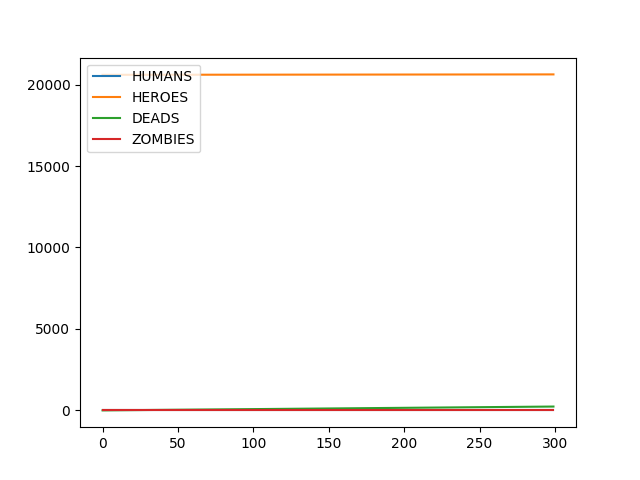
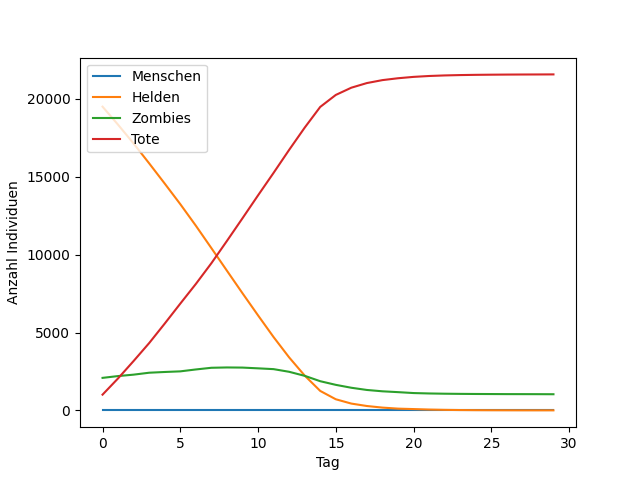
finished simulation prototype

diff --git a/simulation.py b/simulation.py
@@ -1,10 +1,11 @@
 from sys import argv as args
 from matplotlib import pyplot as plt
 import random
+from math import ceil
 
 # https://www.deutschland123.de/z%C3%BClpich -> 20597k citizens
 CITIZENS = 20597
-HMN_CITIZENS = int(.9 * CITIZENS)
+HMN_CITIZENS = int(.955 * CITIZENS)
 HERO_CITIZENS = CITIZENS - HMN_CITIZENS
 
 SPECIES = {
@@ -26,10 +27,14 @@ SPECIES_LEGEND = {
 
 DAY = 0
 
+HEROES_ALLOWED = False
+
 
 def main():
+    global HEROES_ALLOWED
     static_tasks = [population_growth]
     human_tasks = [zombie_fights, human_kills_human]
+    hero_tasks = []
     random.seed(1)
 
     # The simulation without zombies -> blank
@@ -45,12 +50,19 @@ def main():
              (HMN_CITIZENS + HERO_CITIZENS, 0, 0, 1),
              "zombified_no_heroes.png")
 
+    HEROES_ALLOWED = True
+
     # The simulation without humans, so if all citizens were heroes in a city with some zombies.
     # This is to adjust the heroes' influence on the pandemic.
-    # simulate(30,
-    #          hero_tasks,
-    #          (0, HMN_CITIZENS + HERO_CITIZENS, 0, 5000),
-    #          "zombified_all_heroes.png")
+    simulate(30,
+             human_tasks,
+             (0, HMN_CITIZENS + HERO_CITIZENS, 0, 2000),
+             "zombified_all_heroes.png")
+
+    simulate(60,
+             static_tasks + human_tasks,
+             (HMN_CITIZENS, HERO_CITIZENS, 0, 2),
+             "zombified.png")
 
 
 def simulate(iterations: int, tasks: list, species_conf: tuple, plot_file: str):
@@ -94,7 +106,6 @@ def population_growth():
     increase_species("HEROES",  (yearly_births / CITIZENS) * SPECIES["HEROES"] / 365)
 
 
-# ######################## human tasks ######################## #
 def zombie_fights():
     """
         The daily fights between the living ones and the zombies
@@ -104,42 +115,33 @@ def zombie_fights():
     fights = random.choices(range(population), k=possible_matches)
     human_fights = len(list(filter(lambda x: x < SPECIES["HUMANS"], fights)))
     hero_fights = len(fights) - human_fights
-    human_fights_zombie(human_fights)
-    hero_fights_zombie(hero_fights)
+    someone_fights_zombie("HUMANS", human_fights, .2)
+    someone_fights_zombie("HEROES", hero_fights, hero_skill())
 
 
-def human_fights_zombie(fights: int):
+def someone_fights_zombie(species: str, fights: int, win_prob: float):
     """
-        The change of zombies killed by humans.
-        One human has the skill to kill one of ten zombies.
+        The change of zombies killed during a fight.
 
-        A tenth of the humans who failed the fight  is gonna be eaten completely, the other turn to a zombie.
+        A tenth of the people who failed the fight is gonna be eaten completely, the other turn to a zombie.
     """
     current_population = SPECIES["HUMANS"] + SPECIES["HEROES"]
-    results = random.choices(range(10), k=fights)
-    success = len(list(filter(lambda x: x == 1, results)))
+    results = random.choices([0, 1], weights=[win_prob, 1-win_prob], k=fights)
+    success = len(list(filter(lambda x: x == 0, results)))
     dying_species("ZOMBIES", success)
 
     fail = fights - success
-    dying_species("HUMANS", fail * .1)
+    if species == "HUMANS" and HEROES_ALLOWED:
+        human_evolves(success)  # a human who survived a fight evolves to a hero
+
+        # if a human fails, he may have luck and meets a hero who saves him
+        if random.random() < SPECIES["HEROES"] / current_population:
+            hero_saves_human(ceil(hero_skill() * fail))
+
+    dying_species(species, fail * .1)
 
     # transforming to zombie
-    reduce_species("HUMANS", fail * .9)
-    increase_species("ZOMBIES", fail * .9)
-
-
-def zombie_transforms_human(fights: int):
-    """
-        The change of humans turned into zombies.
-        This gets higher the more zombies exist.
-        A zombie selects one human a day as meal.
-        Ten percent of the victims are gonna be eaten completely, the other part morphs.
-    """
-    victims = int(SPECIES["ZOMBIES"]) if SPECIES["ZOMBIES"] < SPECIES["HUMANS"] else SPECIES["HUMANS"]
-    dying_species("HUMANS", victims * .1)
-
-    reduce_species("HUMANS", victims * .9)
-    increase_species("ZOMBIES", victims * .9)
+    morphing_species(species, fail * .9)
 
 
 def human_kills_human():
@@ -150,11 +152,22 @@ def human_kills_human():
     """
     global DAY
     stress = sigmoid(DAY, 100)  # after 100 days 1 human dies a day
-    dying_species("HUMANS", stress)
+    dying_species("HUMANS", stress * bool(SPECIES["ZOMBIES"]))
 
 
-def hero_fights_zombie(fights: int):
-    pass
+def hero_saves_human(humans: int):
+    interactions = random.choices([0, 1], weights=[.2, .8], k=humans)
+    recruite_to_hero = len(list(filter(lambda x: x == 1, interactions)))
+    human_evolves(recruite_to_hero)
+
+
+def human_evolves(humans: float):
+    reduce_species("HUMANS", humans)
+    increase_species("HEROES", humans)
+
+
+def hero_skill():
+    return .45 + sigmoid(DAY, 30) * .25
 
 
 def sigmoid(x: float, where_to_be_one: float) -> float:
@@ -181,6 +194,13 @@ def dying_species(species: str, change: float):
     reduce_species(species, change)
     after = SPECIES[species]
     increase_species("DEADS", before - after)
+
+
+def morphing_species(species: str, change: float):
+    before = SPECIES[species]
+    reduce_species(species, change)
+    after = SPECIES[species]
+    increase_species("ZOMBIES", before - after)
 
 
 def plot(species: dict, file: str, x_axis="Tag", y_axis="Anzahl Individuen"):
